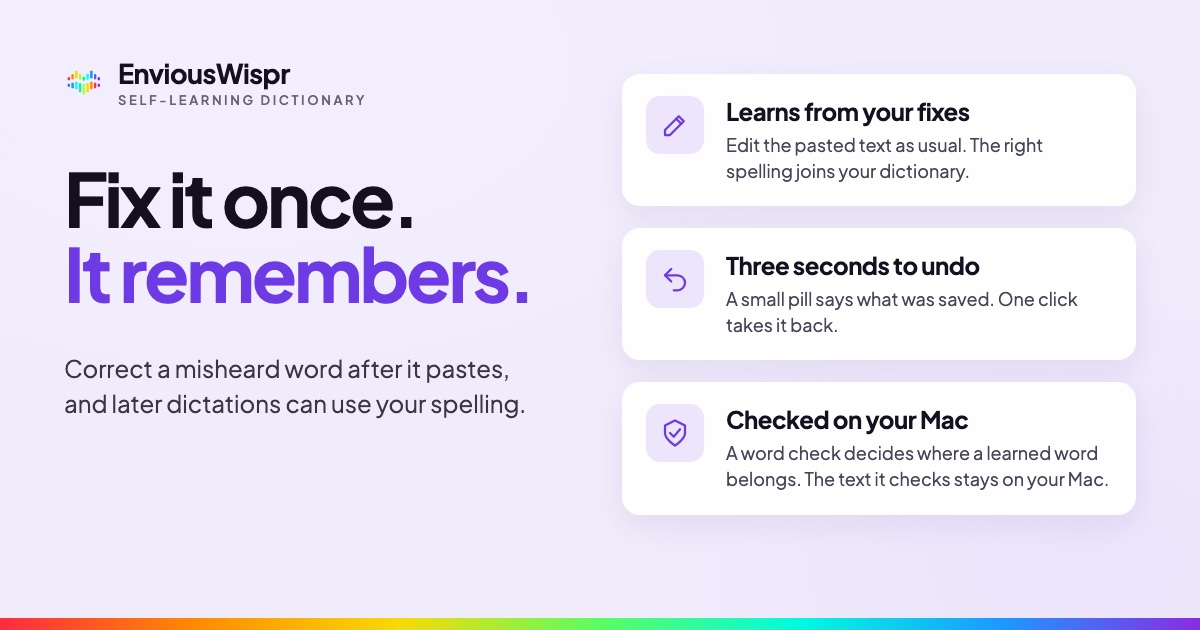
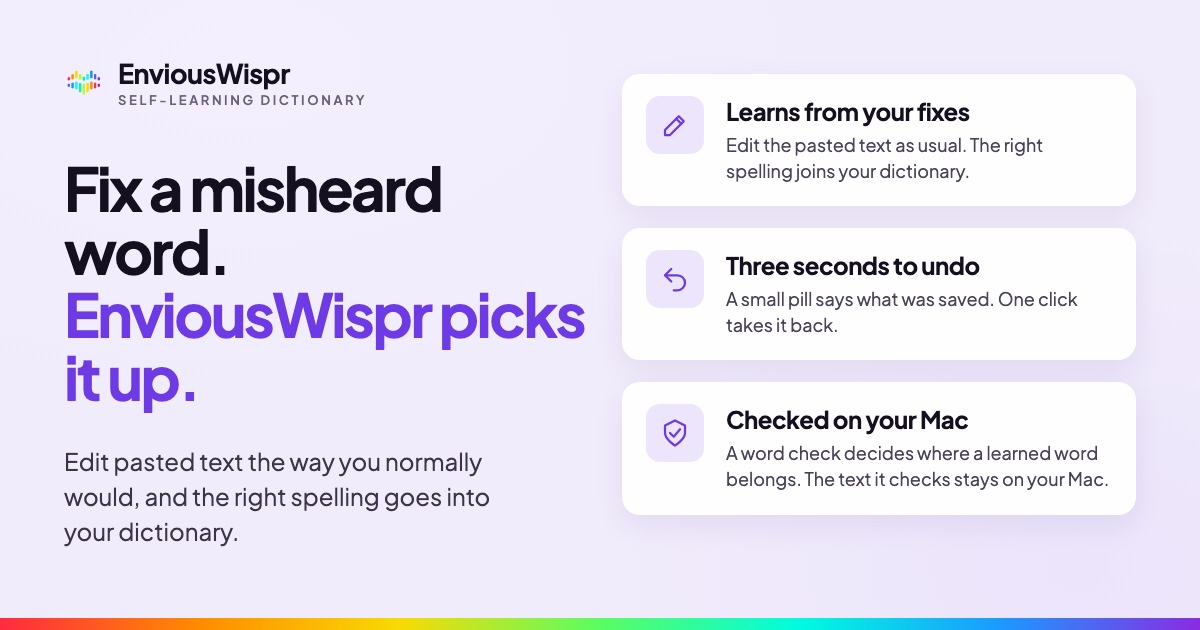
feat(website): the Self-Learning film shows the fix as you'd make it, and the page reads human (#996)
Founder, 2026-09-28: instead of a red strike-out, show the misheard word
selected, deleted and the right word typed in, then the pill. The film now
steps through pasted, selected (system selection look), deleted, typing (a
caret, letter by letter) and done; the directory card matches.

Founder: "I hate the ai sounding headlines". Gemini (gemini-3.8-flash)
rewrote the page copy, film titles and status lines; facts held, with one
override: "your dictation and saved vocabulary go to your provider" became
"your dictation, with any learned words in it", since learned words stay out
of the polish prompt. The menu tagline, preview image headline and the
Dictionary page teaser drop the two-beat slogans too. Title and description
fit the features check (57 and 151 chars).

Checks: npm run build, then check:help: help routes 75/75, 0 dead links; search 47/47; features 10/10; dist weight 0 problems. Frames checked in Chrome: selected and typing.

Self-audit-grep: grep -rn "It remembers\|Fix it once\|spot by spot\|Kept on your Mac\|Let it remember" website/src website/public/llms.txt returns nothing.
Self-audit-owner: films.js selflearn scenes and film-director.js own the film; help/self-learning-dictionary.md owns the feature's claims.

Changed region(s): [[0.0308, 0.2413, 0.4933, 0.6635], [0.0617, 0.7238, 0.4008, 0.8746]]

diff --git a/website/src/styles/features/self-learning.css b/website/src/styles/features/self-learning.css
@@ -6,10 +6,19 @@
 .sl-label{display:block;font-size:12px;line-height:1.4;color:var(--body);margin-bottom:13px}
 .sl-document p{font-size:23px;line-height:1.5;letter-spacing:-.02em;color:var(--ink);margin:0;min-height:69px;overflow-wrap:anywhere}
 .sl-edit{white-space:nowrap}
-.sl-edit del{text-decoration:none;border-radius:4px;padding:0 3px;background:color-mix(in srgb,var(--accent) 16%,transparent);color:var(--accent);font-weight:600;transition:color .3s,background .3s,opacity .3s}
-.sl-edit ins{text-decoration:none;display:inline-block;max-width:0;overflow:hidden;vertical-align:bottom;opacity:0;border-radius:4px;background:var(--green-soft);color:var(--green);font-weight:600;transition:max-width .5s ease,opacity .3s,padding .3s}
-.film-selflearn:not([data-phase=listening]) .sl-edit del{color:var(--rose);background:var(--rose-soft);text-decoration:line-through;text-decoration-thickness:1.5px;opacity:.75}
-.film-selflearn:not([data-phase=listening]) .sl-edit ins{max-width:9em;opacity:1;padding:0 3px;margin-left:4px}
+/* Build-time and finished frame: the fixed word, nothing else. */
+.sl-wrong{display:none;border-radius:3px}
+.sl-fixed{color:var(--green);font-weight:600}
+.sl-caret{display:none;width:2px;height:1.05em;margin-left:1px;vertical-align:-.12em;background:var(--ink);animation:sl-blink 1s steps(1) infinite}
+@keyframes sl-blink{50%{opacity:0}}
+/* Pasted: the misheard word as it came out. */
+.film-selflearn[data-edit=pasted] .sl-wrong,.film-selflearn[data-edit=selected] .sl-wrong{display:inline}
+.film-selflearn[data-edit=pasted] .sl-fixed,.film-selflearn[data-edit=selected] .sl-fixed{display:none}
+/* Selected: the system text-selection look. */
+.film-selflearn[data-edit=selected] .sl-wrong{background:color-mix(in srgb,#3b82f6 38%,transparent);color:var(--ink)}
+/* Deleted, then typed letter by letter, with a caret. */
+.film-selflearn:is([data-edit=deleted],[data-edit=typing]) .sl-caret{display:inline-block}
+.film-selflearn:is([data-edit=deleted],[data-edit=typing]) .sl-fixed{color:var(--ink);font-weight:400}
 .sl-pill{display:flex;align-items:center;gap:10px;width:fit-content;max-width:100%;margin:16px auto;padding:9px 12px 9px 14px;border-radius:999px;background:#211a2c;color:#f4eff9;font:500 14px/1.3 -apple-system,BlinkMacSystemFont,sans-serif;box-shadow:0 10px 26px #1b12262e;position:relative;overflow:hidden;opacity:0;transform:translateY(8px) scale(.97);transition:opacity .3s,transform .3s}
 .sl-pill svg{width:17px;height:17px;flex:none;color:#9be3c5}
 .sl-pill>span[data-sl-pill]{overflow-wrap:anywhere}
@@ -27,7 +36,7 @@ html[data-theme=dark] .sl-pill svg,html[data-theme=dark] .sl-timer{color:#287a63
 html[data-theme=dark] .sl-pill svg{background:none}
 html[data-theme=dark] .sl-undo{background:#211a2c14}
 @media(max-width:600px){.sl-document p{font-size:20px;min-height:60px}.sl-pill{font-size:13px}}
-@media(prefers-reduced-motion:reduce){.sl-edit del,.sl-edit ins,.sl-pill,.sl-timer,.sl-next{transition:none}}
+@media(prefers-reduced-motion:reduce){.sl-pill,.sl-timer,.sl-next{transition:none}.sl-caret{animation:none}}
 /* The "checked before it's used" visual: one approved spot, one left alone. */
 .sl-check{display:grid;gap:12px;padding:20px;border:1px solid var(--line);border-radius:16px;background:var(--film-panel)}
 .sl-check-row{display:grid;grid-template-columns:auto minmax(0,1fr) auto;align-items:center;gap:12px;padding:15px 16px;border:1px solid var(--line);border-radius:12px;background:var(--film-well)}

diff --git a/website/src/data/features/films.js b/website/src/data/features/films.js
@@ -23,9 +23,9 @@ export const SCENES = {
   // pill, then the next dictation. Pill wording is the app's own
   // (help/self-learning-dictionary.md, "Read the pill").
   selflearn: [
-    { label: 'Names', title: 'Fix a name once.', where: 'On your Mac', pasted: 'Send the draft to ', wrong: 'Sasha', fixed: 'Saoirse', tail: ' tonight.', pill: 'Added “Saoirse” to Dictionary', out: 'Saoirse signed off on the draft.', out_marks: ['Saoirse'], explain: 'Checked each time before it is used.' },
-    { label: 'Tools', title: 'Your tools, not look-alikes.', where: 'On your Mac', pasted: 'The build runs on ', wrong: 'Twist', fixed: 'Tuist', tail: ' now.', pill: 'Added “Tuist” to Dictionary', out: 'Run Tuist before you open the project.', out_marks: ['Tuist'], explain: 'Checked before it is used.' },
-    { label: 'Updates', title: 'A word you already had.', where: 'On your Mac', pasted: 'Ask ', wrong: 'Shivon', fixed: 'Siobhan', tail: ' about Friday.', pill: '“Siobhan” updated', out: 'Siobhan can make Friday.', out_marks: ['Siobhan'], explain: 'The mishearing joins your word.' },
+    { label: 'Names', title: 'Correcting a name', where: 'On your Mac', pasted: 'Send the draft to ', wrong: 'Sasha', fixed: 'Saoirse', tail: ' tonight.', pill: 'Added “Saoirse” to Dictionary', out: 'Saoirse signed off on the draft.', out_marks: ['Saoirse'], explain: 'Checked locally each time before changing your text.' },
+    { label: 'Tools', title: 'Working in your daily apps', where: 'On your Mac', pasted: 'The build runs on ', wrong: 'Twist', fixed: 'Tuist', tail: ' now.', pill: 'Added “Tuist” to Dictionary', out: 'Run Tuist before you open the project.', out_marks: ['Tuist'], explain: 'Checked locally against context before it is applied.' },
+    { label: 'Updates', title: 'Updating an existing word', where: 'On your Mac', pasted: 'Ask ', wrong: 'Shivon', fixed: 'Siobhan', tail: ' about Friday.', pill: '“Siobhan” updated', out: 'Siobhan can make Friday.', out_marks: ['Siobhan'], explain: 'The new mishearing is attached to your existing word.' },
   ],
   preview: [
     { label: 'English', title: 'Your words, as you speak.', where: 'Live draft', raw: 'Hi Maya um for Friday please bring the design notes the launch checklist and the revised budget of six thousand two hundred thirty nine dollars thanks Amira', lang: 'en', explain: 'Your thought, in view.' },
@@ -40,13 +40,13 @@ export const DURATIONS = {
   snippets: [1100, 500, 1350, 3200],
   quickadd: [1300, 3200, 700, 2600],
   correction: [1800, 850, 650, 3200],
-  selflearn: [1500, 1700, 1900, 3200],
+  selflearn: [1500, 2800, 1900, 3200],
   preview: [4800, 450, 450, 3000],
 };
 
 export const STATUS_WORDS = {
   quickadd: ['Select the misheard words.', 'Pick the word you meant.', 'Press Return to add the spelling.', ''],
-  selflearn: ['EnviousWispr pastes your dictation…', 'You fix one word…', 'Saved, with three seconds to undo…', ''],
+  selflearn: ['Pasting the dictation', 'Editing the misheard word', 'Saved to dictionary, with three seconds to undo', ''],
   snippets: ['A short spoken phrase…', 'Finding your saved text…', 'Your words, ready to use…', ''],
   preview: ['A thought takes shape…', 'The draft updates…', 'Keep it in view…', ''],
   default: ['Listening to the example…', 'Matching your words…', 'Your finished text…', ''],

diff --git a/website/src/scripts/features/film-director.js b/website/src/scripts/features/film-director.js
@@ -97,10 +97,20 @@ export function init(node, motion, scope) {
       text(raw, sample.raw, sample.raw_marks || []);
       text(out, sample.out);
     } else if (kind === 'selflearn') {
-      for (const part of ['pasted', 'wrong', 'fixed', 'tail', 'pill']) {
+      // The fix as a person makes it: select the misheard word, delete it,
+      // type the right one, then the pill. Stages ride on data-edit for CSS.
+      const edit =
+        phase === 0 ? 'pasted' : phase > 1 ? 'done' : progress < 0.3 ? 'selected' : progress < 0.4 ? 'deleted' : 'typing';
+      node.dataset.edit = edit;
+      const fixedChars = Array.from(sample.fixed);
+      const typed =
+        edit === 'done' ? fixedChars.length : edit === 'typing' ? Math.min(fixedChars.length, Math.ceil((fixedChars.length * (progress - 0.4)) / 0.5)) : 0;
+      for (const part of ['pasted', 'wrong', 'tail', 'pill']) {
         const el = node.querySelector(`[data-sl-${part}]`);
         if (el) el.textContent = sample[part];
       }
+      const fixed = node.querySelector('[data-sl-fixed]');
+      if (fixed) fixed.textContent = fixedChars.slice(0, typed).join('');
       text(out, sample.out, sample.out_marks || [], phase < 3 ? 0 : Math.max(1, Math.ceil(Array.from(sample.out).length * Math.min(1, progress * 3))));
     } else if (kind === 'preview') {
       const chars = Array.from(sample.raw);

diff --git a/website/src/styles/features/landing.css b/website/src/styles/features/landing.css
@@ -96,7 +96,7 @@ html[data-motion=paused] :is(.landing-product-card,.loop-feature-card) *{animati
 /* Self-Learning Dictionary directory card (#996). */
 .preview-self-learning-dictionary{display:grid;gap:10px;align-content:center;border:1px solid var(--landing-border);border-radius:13px;padding:18px;background:color-mix(in srgb,var(--landing-tint) 55%,var(--landing-card))}
 .mini-fix{font-size:21px;line-height:1.35;color:var(--ink)}
-.mini-fix del{color:var(--rose);text-decoration:line-through;text-decoration-thickness:1.5px;margin-right:6px}
+.mini-caret{display:inline-block;width:2px;height:1em;margin-left:2px;vertical-align:-.1em;background:var(--ink)}
 .mini-fix ins{text-decoration:none;color:var(--green);font-weight:600}
 .mini-pill{display:inline-flex;align-items:center;gap:8px;width:fit-content;max-width:100%;padding:6px 10px;border-radius:999px;background:#211a2c;color:#f4eff9;font-size:12px;font-weight:500}
 .mini-pill svg{width:14px;height:14px;color:#9be3c5;flex:none}

diff --git a/website/src/data/site-navigation.js b/website/src/data/site-navigation.js
@@ -58,9 +58,9 @@ export const catalog = [
     slug: 'self-learning-dictionary',
     path: '/features/self-learning-dictionary/',
     name: 'Self-Learning Dictionary',
-    menuTagline: 'Fix a word once. It remembers.',
+    menuTagline: 'Learns from the words you fix.',
     cardBenefit: 'Correct a misheard word once, and later dictations can use your spelling.',
-    heroTagline: 'Fix it once',
+    heroTagline: 'Learns from your fixes',
     updated: '2026-09-27',
     menuProduct: true,
   },
